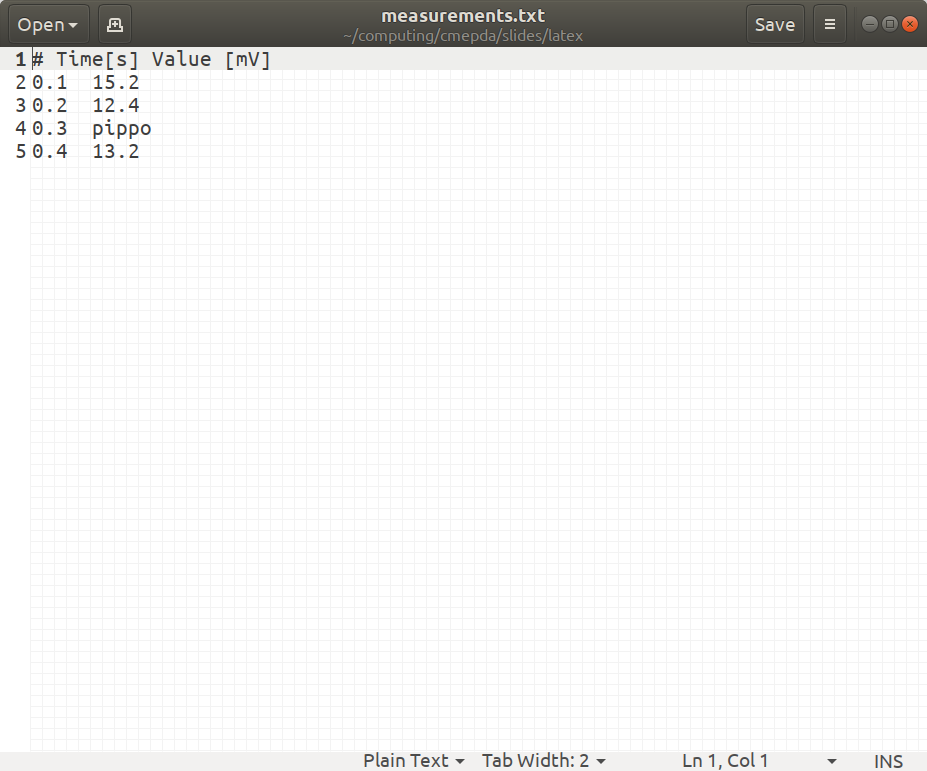
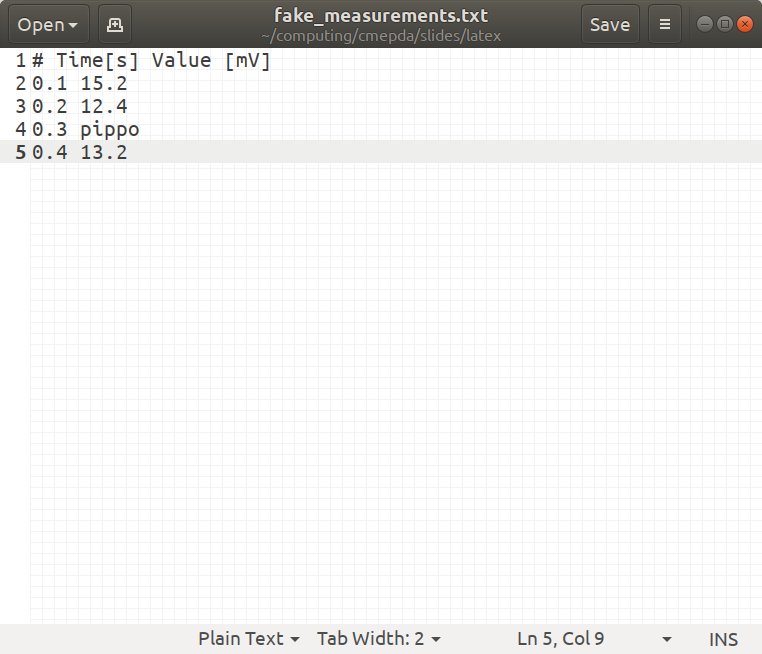
Changed measurments.txt into fake_measurements.txt

diff --git a/slides/latex/pygments/when_to_catch_2.tex b/slides/latex/pygments/when_to_catch_2.tex
@@ -7,7 +7,7 @@
     \PY{n}{tension} \PY{o}{=} \PY{n+nb}{float}\PY{p}{(}\PY{n}{values}\PY{p}{[}\PY{l+m+mi}{1}\PY{p}{]}\PY{p}{)}
     \PY{k}{return} \PY{n}{time}\PY{p}{,} \PY{n}{tension}
 
-\PY{k}{with} \PY{n+nb}{open}\PY{p}{(}\PY{l+s+s1}{\PYZsq{}}\PY{l+s+s1}{measurements.txt}\PY{l+s+s1}{\PYZsq{}}\PY{p}{)} \PY{k}{as} \PY{n}{lab\PYZus{}data\PYZus{}file}\PY{p}{:}
+\PY{k}{with} \PY{n+nb}{open}\PY{p}{(}\PY{l+s+s1}{\PYZsq{}}\PY{l+s+s1}{fake\PYZus{}measurements.txt}\PY{l+s+s1}{\PYZsq{}}\PY{p}{)} \PY{k}{as} \PY{n}{lab\PYZus{}data\PYZus{}file}\PY{p}{:}
     \PY{k}{for} \PY{n}{line\PYZus{}number}\PY{p}{,} \PY{n}{line} \PY{o+ow}{in} \PY{n+nb}{enumerate}\PY{p}{(}\PY{n}{lab\PYZus{}data\PYZus{}file}\PY{p}{)}\PY{p}{:} \PY{c+c1}{\PYZsh{} get the line number}
         \PY{k}{if} \PY{o+ow}{not} \PY{n}{line}\PY{o}{.}\PY{n}{startswith}\PY{p}{(}\PY{l+s+s1}{\PYZsq{}}\PY{l+s+s1}{\PYZsh{}}\PY{l+s+s1}{\PYZsq{}}\PY{p}{)}\PY{p}{:} \PY{c+c1}{\PYZsh{} skip comments}
             \PY{k}{try}\PY{p}{:}

diff --git a/slides/latex/pygments/when_to_catch_1.tex b/slides/latex/pygments/when_to_catch_1.tex
@@ -10,7 +10,7 @@
         \PY{k}{return} \PY{n+nb+bp}{None} \PY{c+c1}{\PYZsh{} We can\PYZsq{}t really return something meaningful}
     \PY{k}{return} \PY{n}{time}\PY{p}{,} \PY{n}{tension}
 
-\PY{k}{with} \PY{n+nb}{open}\PY{p}{(}\PY{l+s+s1}{\PYZsq{}}\PY{l+s+s1}{measurements.txt}\PY{l+s+s1}{\PYZsq{}}\PY{p}{)} \PY{k}{as} \PY{n}{lab\PYZus{}data\PYZus{}file}\PY{p}{:}
+\PY{k}{with} \PY{n+nb}{open}\PY{p}{(}\PY{l+s+s1}{\PYZsq{}}\PY{l+s+s1}{fake\PYZus{}measurements.txt}\PY{l+s+s1}{\PYZsq{}}\PY{p}{)} \PY{k}{as} \PY{n}{lab\PYZus{}data\PYZus{}file}\PY{p}{:}
     \PY{k}{for} \PY{n}{line} \PY{o+ow}{in} \PY{n}{lab\PYZus{}data\PYZus{}file}\PY{p}{:}
         \PY{k}{if} \PY{o+ow}{not} \PY{n}{line}\PY{o}{.}\PY{n}{startswith}\PY{p}{(}\PY{l+s+s1}{\PYZsq{}}\PY{l+s+s1}{\PYZsh{}}\PY{l+s+s1}{\PYZsq{}}\PY{p}{)}\PY{p}{:} \PY{c+c1}{\PYZsh{} skip comments}
             \PY{n}{time}\PY{p}{,} \PY{n}{tension} \PY{o}{=} \PY{n}{parse\PYZus{}line}\PY{p}{(}\PY{n}{line}\PY{p}{)}

diff --git a/slides/latex/pygments/when_to_catch.tex b/slides/latex/pygments/when_to_catch.tex
@@ -7,7 +7,7 @@
     \PY{n}{tension} \PY{o}{=} \PY{n+nb}{float}\PY{p}{(}\PY{n}{values}\PY{p}{[}\PY{l+m+mi}{1}\PY{p}{]}\PY{p}{)}
     \PY{k}{return} \PY{n}{time}\PY{p}{,} \PY{n}{tension}
 
-\PY{k}{with} \PY{n+nb}{open}\PY{p}{(}\PY{l+s+s1}{\PYZsq{}}\PY{l+s+s1}{measurements.txt}\PY{l+s+s1}{\PYZsq{}}\PY{p}{)} \PY{k}{as} \PY{n}{lab\PYZus{}data\PYZus{}file}\PY{p}{:}
+\PY{k}{with} \PY{n+nb}{open}\PY{p}{(}\PY{l+s+s1}{\PYZsq{}}\PY{l+s+s1}{fake\PYZus{}measurements.txt}\PY{l+s+s1}{\PYZsq{}}\PY{p}{)} \PY{k}{as} \PY{n}{lab\PYZus{}data\PYZus{}file}\PY{p}{:}
     \PY{k}{for} \PY{n}{line} \PY{o+ow}{in} \PY{n}{lab\PYZus{}data\PYZus{}file}\PY{p}{:}
         \PY{k}{if} \PY{o+ow}{not} \PY{n}{line}\PY{o}{.}\PY{n}{startswith}\PY{p}{(}\PY{l+s+s1}{\PYZsq{}}\PY{l+s+s1}{\PYZsh{}}\PY{l+s+s1}{\PYZsq{}}\PY{p}{)}\PY{p}{:} \PY{c+c1}{\PYZsh{} skip comments}
             \PY{n}{time}\PY{p}{,} \PY{n}{tension} \PY{o}{=} \PY{n}{parse\PYZus{}line}\PY{p}{(}\PY{n}{line}\PY{p}{)}

diff --git a/slides/latex/snippets/when_to_catch_1.py b/slides/latex/snippets/when_to_catch_1.py
@@ -9,7 +9,7 @@ def parse_line(line):
         return None # We can't really return something meaningful
     return time, tension
 
-with open('measurements.txt') as lab_data_file:
+with open('fake_measurements.txt') as lab_data_file:
     for line in lab_data_file:
         if not line.startswith('#'): # skip comments
             time, tension = parse_line(line)

diff --git a/slides/latex/snippets/when_to_catch_2.py b/slides/latex/snippets/when_to_catch_2.py
@@ -6,7 +6,7 @@ def parse_line(line):
     tension = float(values[1])
     return time, tension
 
-with open('measurements.txt') as lab_data_file:
+with open('fake_measurements.txt') as lab_data_file:
     for line_number, line in enumerate(lab_data_file): # get the line number
         if not line.startswith('#'): # skip comments
             try:

diff --git a/slides/latex/snippets/when_to_catch.py b/slides/latex/snippets/when_to_catch.py
@@ -6,7 +6,7 @@ def parse_line(line):
     tension = float(values[1])
     return time, tension
 
-with open('measurements.txt') as lab_data_file:
+with open('fake_measurements.txt') as lab_data_file:
     for line in lab_data_file:
         if not line.startswith('#'): # skip comments
             time, tension = parse_line(line)
